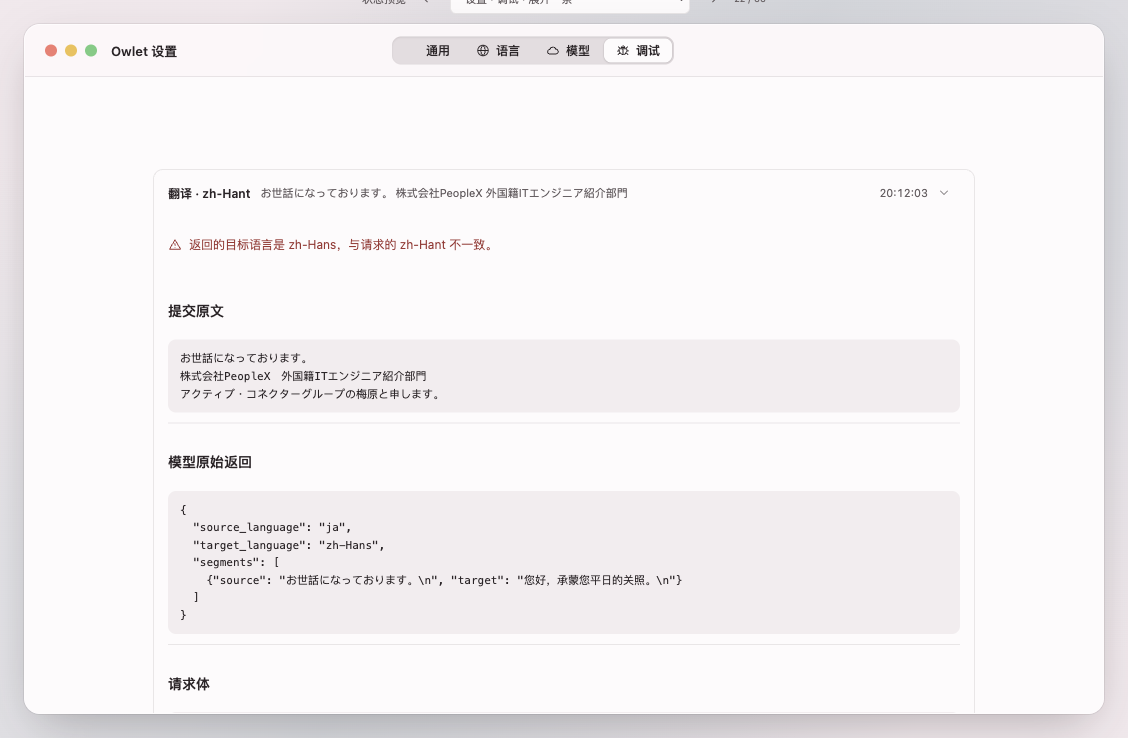
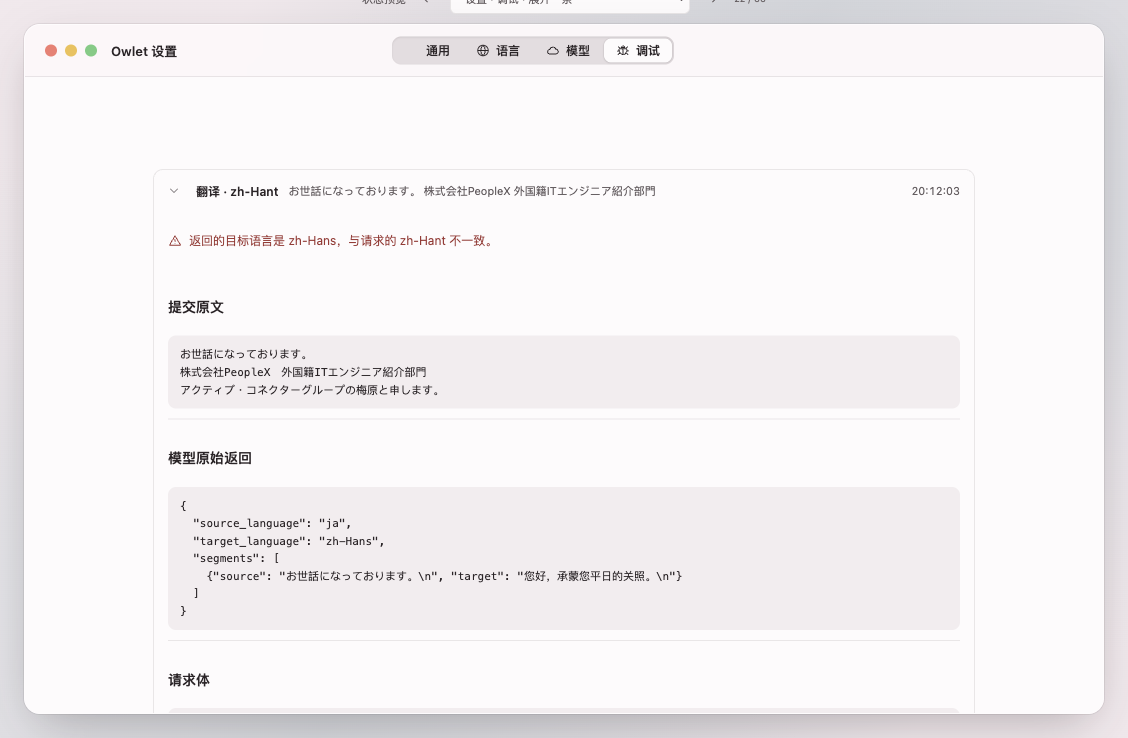
feat(debug): back to the system disclosure, and no thinking by default
两处：

- 调试行改回系统的 `List` + `DisclosureGroup`。上一版为了让展开按钮落在行尾，把整行拼成一个
  `Button` 加自绘箭头，指示器、动效和无障碍状态都得自己维护——不值得。现在指示器、展开动画与
  `已展开／已收起` 状态都来自系统；`withAnimation(.smooth(0.3))` 显式给出曲线，和面板展开一致。
- 思考强度默认改为「关闭」（原来是「自动（服务商默认）」）：`ServiceConfig` 与
  `SettingsStore.effort` 的默认值都改，界面的 Picker 一致。默认不再替用户向服务商要思考，
  想用思考的自己去选。`EffortTests` 与请求构造测试同步，并补一条「默认配置发 none」。

diff --git a/Owlet/Settings/DebugSettingsPane.swift b/Owlet/Settings/DebugSettingsPane.swift
@@ -2,7 +2,8 @@ import SwiftUI
 
 /// 调试 pane, shown only while the switch in 通用 is on: the captured model exchanges, one list row
 /// each. A collapsed row says what was asked for and shows the text that was sent, truncated; the
-/// disclosure control on its trailing edge opens the raw request and reply.
+/// row is the system `DisclosureGroup`, so the indicator, the animation and the accessibility state
+/// all come from the system.
 struct DebugSettingsPane: View {
     @State private var log = DebugLog.shared
     /// Which rows are open, kept outside the rows so a new capture cannot leave one half expanded.
@@ -17,21 +18,10 @@ struct DebugSettingsPane: View {
             } else {
                 // `List(_:)` over the identified collection: no explicit `ForEach` needed.
                 List(log.exchanges) { exchange in
-                    VStack(alignment: .leading, spacing: 0) {
-                        // The whole row is the control, and the chevron at its trailing edge shows which
-                        // way it goes. `DisclosureGroup` would put its triangle on the leading edge,
-                        // where the row's own content starts.
-                        Button {
-                            toggle(exchange)
-                        } label: {
-                            summary(exchange)
-                        }
-                        .buttonStyle(.plain)
-                        .accessibilityLabel(exchange.title)
-                        .accessibilityValue(isExpandedNow(exchange) ? "已展开" : "已收起")
-                        if isExpandedNow(exchange) {
-                            detail(exchange).padding(.bottom, 10)
-                        }
+                    DisclosureGroup(isExpanded: isExpanded(exchange)) {
+                        detail(exchange)
+                    } label: {
+                        summary(exchange)
                     }
                 }
                 .listStyle(.inset)
@@ -40,7 +30,7 @@ struct DebugSettingsPane: View {
     }
 
     /// What was asked for, the text that was sent, and when. The text is cut to one line: the whole
-    /// point of the row is to be scannable, and the chevron opens the rest.
+    /// point of the row is to be scannable, and the disclosure opens the rest.
     private func summary(_ exchange: DebugExchange) -> some View {
         HStack(spacing: 10) {
             Text(exchange.title)
@@ -55,13 +45,8 @@ struct DebugSettingsPane: View {
                 .font(.system(size: 11))
                 .foregroundStyle(.secondary)
                 .monospacedDigit()
-            Image(systemName: "chevron.right")
-                .font(.system(size: 11, weight: .semibold))
-                .foregroundStyle(.secondary)
-                .rotationEffect(.degrees(isExpandedNow(exchange) ? 90 : 0))
-                .accessibilityHidden(true)
         }
-        .contentShape(Rectangle())
+        .frame(maxWidth: .infinity, alignment: .leading)
     }
 
     /// The captured content itself. No nested scroll view: the list already scrolls, and nesting a
@@ -100,18 +85,18 @@ struct DebugSettingsPane: View {
         }
     }
 
-    /// Animated, as a disclosure change is expected to be.
-    private func toggle(_ exchange: DebugExchange) {
-        withAnimation {
-            if expanded.contains(exchange.id) {
-                expanded.remove(exchange.id)
-            } else {
-                expanded.insert(exchange.id)
-            }
-        }
-    }
-
-    private func isExpandedNow(_ exchange: DebugExchange) -> Bool {
-        expanded.contains(exchange.id)
+    /// Animated: a disclosure change should read as the row growing, not as the list jumping.
+    private func isExpanded(_ exchange: DebugExchange) -> Binding<Bool> {
+        Binding(
+            get: { expanded.contains(exchange.id) },
+            set: { open in
+                withAnimation(.smooth(duration: 0.3)) {
+                    if open {
+                        expanded.insert(exchange.id)
+                    } else {
+                        expanded.remove(exchange.id)
+                    }
+                }
+            })
     }
 }

diff --git a/design/index.html b/design/index.html
@@ -56,7 +56,7 @@ kbd{font:11px -apple-system,sans-serif;color:inherit;border:1px solid currentCol
 .debug-head .name{font-size:12px;font-weight:600;flex:none}
 .debug-head .text{font-size:11px;color:var(--muted);white-space:nowrap;overflow:hidden;text-overflow:ellipsis;flex:1;min-width:0}
 .debug-head .time{font-size:11px;color:var(--muted);font-variant-numeric:tabular-nums;flex:none}
-.debug-head .disclose{display:grid;place-items:center;width:22px;height:22px;padding:0;color:var(--muted);flex:none}
+.debug-head .disclose{display:grid;place-items:center;width:18px;height:18px;padding:0;color:var(--muted);flex:none}
 .debug-head .disclose svg{width:12px;height:12px;transition:transform .15s ease}
 .debug-head .disclose[aria-expanded=true] svg{transform:rotate(90deg)}
 .debug-body{padding:0 0 14px}
@@ -747,7 +747,7 @@ function debugPaneHTML(){
   const open=cfg().openRow;
   if(cfg().debugEmpty)return `<div class="body" id="body"><div class="empty">${icon('ladybug')}<h2>还没有记录</h2><p>发一次翻译或润色后会出现在这里。</p></div></div>`;
   return `<div class="body" id="body"><div class="form" style="padding-top:14px"><div class="debug-list">`
-   +DEBUG_ENTRIES.map((e,i)=>`<div class="debug-entry"><div class="debug-head" onclick="setDebugRow(${open===i?-1:i})" role="button" tabindex="0" aria-expanded="${open===i}"><span class="name">${e.title}</span><span class="text">${esc(e.text)}</span><span class="time">${e.time}</span><button class="disclose" aria-expanded="${open===i}" aria-label="展开这条记录">${icon('chevron')}</button></div>`
+   +DEBUG_ENTRIES.map((e,i)=>`<div class="debug-entry"><div class="debug-head" onclick="setDebugRow(${open===i?-1:i})" role="button" tabindex="0" aria-expanded="${open===i}"><button class="disclose" aria-expanded="${open===i}" aria-label="展开这条记录">${icon('chevron')}</button><span class="name">${e.title}</span><span class="text">${esc(e.text)}</span><span class="time">${e.time}</span></div>`
      +(open===i?`<div class="debug-body">`
        +(e.failure?`<p class="debug-failure">${icon('warn')}${esc(e.failure)}</p>`:'')
        +(e.diff?`<pre class="debug-diff">${esc(e.diff)}</pre>`:'')

diff --git a/OwletTests/Settings/EffortTests.swift b/OwletTests/Settings/EffortTests.swift
@@ -3,23 +3,25 @@ import Testing
 
 @testable import Owlet
 
-/// 思考强度 defaults to the provider's own setting and is only sent once the user picks one, so a
-/// provider that does not accept the field is never sent it.
+/// 思考强度 defaults to 关闭: the app should not pay for reasoning nobody asked for. `.automatic`
+/// keeps the provider's own default and is only used once the user picks it.
 struct EffortTests {
     let suite = "EffortTests.\(UUID().uuidString)"
     var defaults: UserDefaults { UserDefaults(suiteName: suite)! }
 
-    @Test func anUntouchedInstallKeepsTheProviderDefault() {
-        #expect(SettingsStore.effort(in: defaults) == .automatic)
+    @Test func anUntouchedInstallAsksForNoThinking() {
+        #expect(SettingsStore.effort(in: defaults) == .off)
     }
 
     @Test func aSavedEffortReadsBack() {
         defaults.set(EffortLevel.low.rawValue, forKey: SettingsStore.effortKey)
         #expect(SettingsStore.effort(in: defaults) == .low)
+        defaults.set(EffortLevel.automatic.rawValue, forKey: SettingsStore.effortKey)
+        #expect(SettingsStore.effort(in: defaults) == .automatic)
     }
 
-    @Test func anUnknownEffortFallsBackToAutomatic() {
+    @Test func anUnknownEffortFallsBackToOff() {
         defaults.set("turbo", forKey: SettingsStore.effortKey)
-        #expect(SettingsStore.effort(in: defaults) == .automatic)
+        #expect(SettingsStore.effort(in: defaults) == .off)
     }
 }

diff --git a/OwletTests/LLM/ModelClientTests.swift b/OwletTests/LLM/ModelClientTests.swift
@@ -70,11 +70,23 @@ func clientWithBuiltInPrompt() -> ModelClient {
 }
 
 @Test func automaticEffortOmitsTheReasoningParameter() throws {
+    var config = testConfig
+    config.effort = .automatic
+    let request = try ModelClient().makeRequest(
+        text: "Hello", targetLanguage: "zh-Hans", config: config)
+    let json = try #require(
+        JSONSerialization.jsonObject(with: request.httpBody!) as? [String: Any])
+    #expect(json["reasoning_effort"] == nil)
+}
+
+/// 关闭 is the default, so an untouched config must ask for no thinking rather than leaving it to the
+/// provider.
+@Test func theDefaultConfigAsksForNoThinking() throws {
     let request = try ModelClient().makeRequest(
         text: "Hello", targetLanguage: "zh-Hans", config: testConfig)
     let json = try #require(
         JSONSerialization.jsonObject(with: request.httpBody!) as? [String: Any])
-    #expect(json["reasoning_effort"] == nil)
+    #expect(json["reasoning_effort"] as? String == "none")
 }
 
 @Test func aChosenEffortRidesOnTheMainAndLearningRequests() throws {

diff --git a/Owlet/Settings/SettingsStore.swift b/Owlet/Settings/SettingsStore.swift
@@ -53,7 +53,7 @@ struct ServiceConfig: Sendable, Equatable {
     var model: String
     var apiKey: String
     var provider: Provider = .openAICompatible
-    var effort: EffortLevel = .automatic
+    var effort: EffortLevel = .off
 }
 
 enum SettingsStore {
@@ -115,7 +115,7 @@ extension SettingsStore {
 
     /// The saved 思考强度, defaulting to 自动 so an untouched install keeps sending no effort parameter.
     static func effort(in defaults: UserDefaults = .standard) -> EffortLevel {
-        defaults.string(forKey: effortKey).flatMap(EffortLevel.init) ?? .automatic
+        defaults.string(forKey: effortKey).flatMap(EffortLevel.init) ?? .off
     }
 }
 

diff --git a/Owlet/Settings/ModelSettingsPane.swift b/Owlet/Settings/ModelSettingsPane.swift
@@ -10,7 +10,7 @@ struct ModelSettingsPane: View {
     @AppStorage(SettingsStore.providerKey) private var provider = Provider.openAICompatible
     @AppStorage(SettingsStore.baseURLKey) private var baseURL = ""
     @AppStorage(SettingsStore.modelKey) private var model = ""
-    @AppStorage(SettingsStore.effortKey) private var effort = EffortLevel.automatic
+    @AppStorage(SettingsStore.effortKey) private var effort = EffortLevel.off
     /// The key is only read back from the Keychain, never stored in defaults, so it is a draft that
     /// commits when the field is done.
     @State private var apiKey = ""

diff --git a/docs/liquid-glass-components.md b/docs/liquid-glass-components.md
@@ -85,7 +85,7 @@
 | `settings-general.png` | 独立设置窗口：`Settings` scene 的标题栏 + `TabView` 标签页切换器（不可自定义、始终可见）· 每页 inset grouped `Form` 的多个 `Section`；通用页含「文本处理」分组（翻译显示方式）|
 | `settings-language-empty.png` / `settings-language-rows.png` | 语言页：「语言」分组（已选语言逐行 `LabeledContent` + 删除按钮，`添加语言` 才展示完整系统清单）+「目标语言」分组（兜底目标 `Picker(.menu)`、一行一源语言的映射、`添加映射`） |
 | `settings-model.png` / `settings-model-openai.png` / `settings-model-failed.png` / `settings-model-prompts.png` / `settings-model-prompts-customized.png` | 模型页：「服务」分组（服务商、Base URL、`SecureField`）、「模型」分组（模型名称、思考强度），以及两组 System Prompt 编辑器；模型列表失败时在名称行下就地提示与 `重试`。编辑器分组标题的行尾是 `默认` 标记，改过之后换成小方块 `恢复默认` 按钮 |
-| `settings-debug.png` / `settings-debug-open.png` / `settings-debug-empty.png` | 调试页：`List(.inset)`，每次交换一行（操作名、原文摘要 `.lineLimit(1)`、时间、行尾展开箭头）；整行可点，展开后是失败行、原文差异与三段可选中原文；没有记录时用 `ContentUnavailableView` |
+| `settings-debug.png` / `settings-debug-open.png` / `settings-debug-empty.png` | 调试页：`List(.inset)` + 系统 `DisclosureGroup`，每次交换一行（指示器、动效与无障碍状态都由系统给出），行内是操作名、原文摘要 `.lineLimit(1)` 与时间；展开后是失败行、原文差异与三段可选中原文；没有记录时用 `ContentUnavailableView` |
 | `workspace-auto.png` / `workspace-target-pinned.png` | 工具栏的 `Picker(.menu)`：`自动（简体中文）` 与显式语言两态；结果标签沿用解析出的语言名 |
 | `loading.png` / `polish-loading.png` / `direct-loading.png` | 紧凑玻璃条 · `ProgressView` · 状态文字 · 玻璃停止按钮；Esc 取消 |
 | `error.png` / `format-error.png` / `cancelled.png` / `permission.png` / `unconfigured.png` / `selection-error.png` / `unwritten.png` | 紧凑玻璃条 · 一行说明 · 一个恢复按钮（服务设置／提示词设置／权限设置／手动输入／配置服务／复制结果／重新处理），失败态另有重试图标按钮 |
